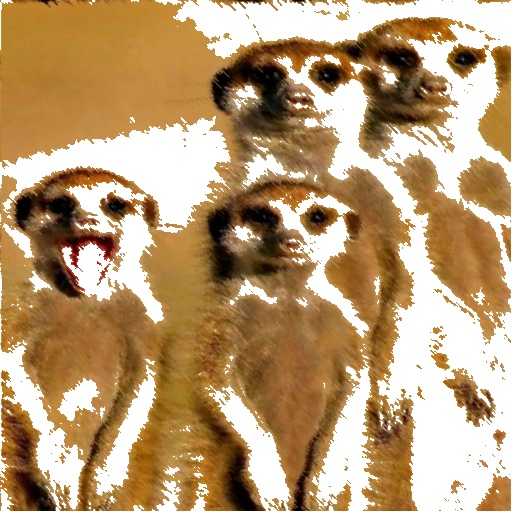
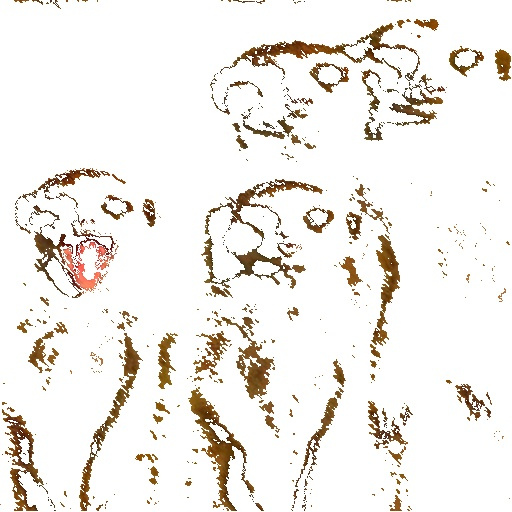
23-08-11

diff --git a/pyqt.py b/pyqt.py
@@ -1,0 +1,195 @@
+import sys
+import cv2
+import Main
+from PyQt5.QtWidgets import *
+from PyQt5.QtGui import *
+from PyQt5.QtCore import *
+
+first_path = r"C:\Labs\picture_game\pyqt_img\first.jpg"
+second_path = r"C:\Labs\picture_game\pyqt_img\second.jpg"
+
+class DragandDrop(QWidget):
+    def __init__(self):
+        super().__init__()
+        self.initUI()
+
+    def initUI(self):
+        self.setWindowTitle('Drag and Drop')
+        self.setGeometry(1000,250,300,300)
+        self.setFixedSize(300,300)
+        self.setAcceptDrops(True)
+
+        self.setup()
+        self.show()
+    def setup(self):
+        self.target_label = QLabel(self)
+        self.target_label.setText('Drag Image Here')
+        main_box = QVBoxLayout()
+        main_box.addWidget(self.target_label)
+        
+        self.setLayout(main_box)
+
+    def dragEnterEvent(self, e):
+        if e.mimeData().hasImage:
+            e.setAccepted(True)
+        else:
+            e.setAccepted(False)
+    def dropEvent(self, event):
+        if event.mimeData().hasImage:
+            event.setDropAction(Qt.CopyAction)
+            image_path = event.mimeData().urls()[0].toLocalFile()
+            
+            self.setImage(image_path)
+            event.setAccepted(True)
+        else:
+            event.setAccepted(False)
+    
+
+    def setImage(self, image_path):
+        self.target_label.setPixmap(QPixmap(image_path))
+        self.target_label.setScaledContents(True)
+        self.show_second_window(image_path)
+    
+    def show_second_window(self,image_path):
+        self.second = secondwindow(image_path)
+        self.second.show()
+        
+class secondwindow(QMainWindow):
+    def __init__(self,image_path):
+        super().__init__()
+        self.image_path = image_path
+        self.initUI()
+    def initUI(self):
+        self.setWindowTitle('find Picture')
+        self.setGeometry(700,250,300,300)
+        self.setFixedSize(300,550)
+        self.setup()
+        self.show()
+
+        
+    def setup(self):
+        self.label1 = QLabel(self)
+        self.label2 = QLabel(self)
+        
+
+        self.img, self.background = Main.create(self.image_path)
+
+        cv2.imwrite(first_path, self.img)
+        cv2.imwrite(second_path, self.img)
+
+        self.show_image_before()
+
+    def show_image_before(self):
+        pixmap = QPixmap(first_path)
+        self.label1.setPixmap(pixmap)
+        self.label1.setScaledContents(True)
+        self.label1.resize(pixmap.width()+10,pixmap.height()+10)
+        self.label1.show()
+        self.rgb_changer()
+    
+    def show_image_after(self):
+        Main.print_pexels(self.img,self.background,self.rgb,second_path)
+        pixmap = QPixmap(second_path)
+        self.label2.setPixmap(pixmap)
+        self.label2.setScaledContents(True)
+        self.label2.resize(pixmap.width()+10,pixmap.height()+10)
+        self.label2.move(0,pixmap.height()+10)
+        self.label2.show()
+
+    def rgb_changer(self):
+        self.changer = changer_rgb()
+        self.changer.show()
+        self.changer.commit_box.clicked.connect(self.commit)
+    def commit(self):
+        self.rgb = self.changer.rgb
+        self.show_image_after()
+
+
+class changer_rgb(QWidget):
+    def __init__(self):
+        super().__init__()
+        self.initUI()
+    def initUI(self):
+        self.setWindowTitle('RGB Changer')
+        self.setGeometry(1000,580,300,300)
+        self.setFixedSize(300,220)
+        self.setup()
+        self.show()
+    def setup(self):
+        self.slider_setup()
+        self.set_label()
+        self.rgb = [0,0,0]
+        main_layout = QVBoxLayout()
+        self.color_border = QLabel(self)
+        self.color_border.setFixedSize(280,50)
+        self.color_border.setStyleSheet("background-color:rgb({red},{green},{blue});".format(red = self.rgb[0],green = self.rgb[1],blue = self.rgb[2]))
+        main_layout.addWidget(self.color_border)
+
+        layout = QGridLayout()
+
+        layout.addWidget(self.label1,0,0)
+        layout.addWidget(self.slider_red,0,1)
+        layout.addWidget(self.label2,1,0)
+        layout.addWidget(self.slider_green,1,1)
+        layout.addWidget(self.label3,2,0)
+        layout.addWidget(self.slider_blue,2,1)
+
+        main_layout.addLayout(layout)
+
+        self.color_border.setStyleSheet("background-color:rgb({red},{green},{blue});".format(red = self.rgb[0],green = self.rgb[1],blue = self.rgb[2]))
+
+        self.commit_box = QPushButton('Commit',self)
+        
+        main_layout.addWidget(self.commit_box)
+        self.setLayout(main_layout)
+    
+    def set_label(self):
+        self.label1 = QLabel(self)
+        self.label2 = QLabel(self)
+        self.label3 = QLabel(self)
+        
+        self.label1.setText('Red')
+        self.label2.setText('Green')
+        self.label3.setText('Blue')
+        
+    def slider_setup(self):
+        self.red = 0
+        self.green = 0
+        self.blue = 0
+        self.slider_red = QSlider(Qt.Horizontal,self)
+        self.slider_red.setRange(0,255)
+        self.slider_red.setSingleStep(1)
+        self.slider_red.setValue(0)
+        
+        self.slider_green = QSlider(Qt.Horizontal,self)
+        self.slider_green.setRange(0,255)
+        self.slider_green.setSingleStep(1)
+        self.slider_green.setValue(0)
+
+        self.slider_blue = QSlider(Qt.Horizontal,self)
+        self.slider_blue.setRange(0,255)
+        self.slider_blue.setSingleStep(1)
+        self.slider_blue.setValue(0)
+
+        self.slider_red.valueChanged.connect(self.slider_changed_red)
+        self.slider_green.valueChanged.connect(self.slider_changed_green)
+        self.slider_blue.valueChanged.connect(self.slider_changed_blue)
+
+    def slider_changed_red(self):
+        self.red = self.slider_red.value()
+        self.rgb = [self.red,self.green,self.blue]
+        self.color_border.setStyleSheet("background-color:rgb({red},{green},{blue});".format(red = self.rgb[0],green = self.rgb[1],blue = self.rgb[2]))
+    def slider_changed_green(self):
+        self.green = self.slider_green.value()
+        self.rgb = [self.red,self.green,self.blue]        
+        self.color_border.setStyleSheet("background-color:rgb({red},{green},{blue});".format(red = self.rgb[0],green = self.rgb[1],blue = self.rgb[2]))
+    def slider_changed_blue(self):
+        self.blue = self.slider_blue.value()
+        self.rgb = [self.red,self.green,self.blue]
+        self.color_border.setStyleSheet("background-color:rgb({red},{green},{blue});".format(red = self.rgb[0],green = self.rgb[1],blue = self.rgb[2]))
+
+
+if __name__ == "__main__":
+    app = QApplication(sys.argv)
+    window = DragandDrop()
+    sys.exit(app.exec_())

diff --git a/Main.py b/Main.py
@@ -3,8 +3,8 @@ import cv2
 import random
 import numpy as np
 
-row_size = 512 # 사각형 크기
-col_size = 512
+row_size = 256 # 사각형 크기
+col_size = 256
 window_size = 2 # 블러 크기
 error_range = 30 # 오차범위
 save_path = r"C:\Labs\picture_game\static\css\img\saves.jpg"
@@ -51,7 +51,7 @@ def check_pexels(img_data:list, rgb:list) -> bool:
     return check
 
 #픽셀 출력
-def print_pexels(img,background,rgb):
+def print_pexels(img,background,rgb,save_path=None):
     for i in range(img.shape[0]-1):
         for j in range(img.shape[1]-1):
             if check_pexels(list(img[i][j]),rgb):
@@ -60,7 +60,10 @@ def print_pexels(img,background,rgb):
     return 
 
 #
-def __create():
+def __create(image_path = None):
+    if image_path is not None:
+        update(image_path)
+    
     img = cv2.imread(__image_path)
     background = cv2.imread(r"static\css\img\white_background.jpg")
 
@@ -70,14 +73,16 @@ def __create():
     return [img, background]
 
 def update(path: str):
+    global __image_path
     if not os.path.exists(path):
         raise FileNotFoundError()
     if not os.path.isfile(path):
         raise RuntimeError(f"This is not file ({path})")
     __image_path = path
+    
 
-def create():
-    __instance = __create()
+def create(image_path = None):
+    __instance = __create(image_path)
     return __instance
 
 
